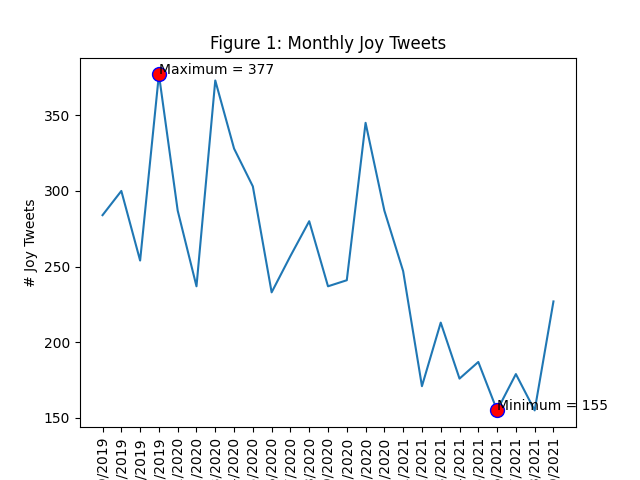
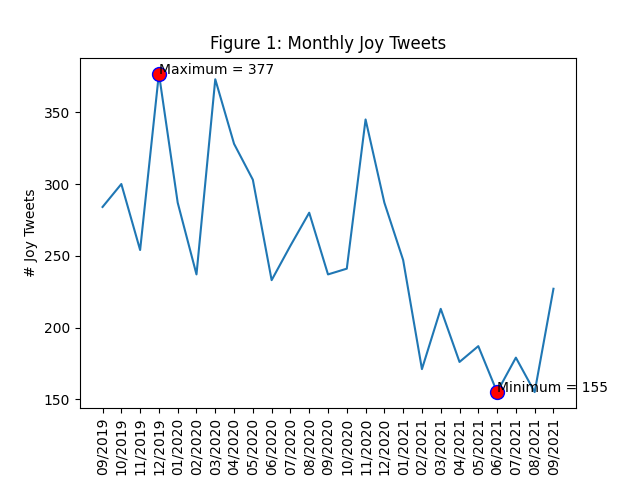
Updated graph

diff --git a/CountJoyTweets.py b/CountJoyTweets.py
@@ -74,6 +74,8 @@ plt.plot(joy_counts.keys(), joy_counts.values())
 plt.title('Figure 1: Monthly Joy Tweets')
 plt.xlabel('Month')
 plt.ylabel('# Joy Tweets')
+plt.xticks(rotation=90)
+plt.subplots_adjust(bottom=0.15)
 
 # create points for max and min
 joy_max = max(joy_counts, key = joy_counts.get)
